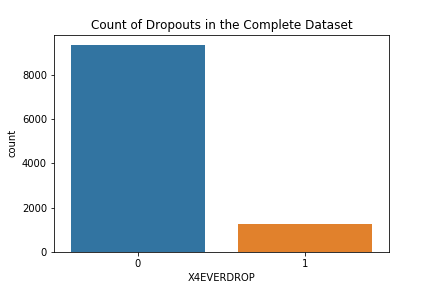
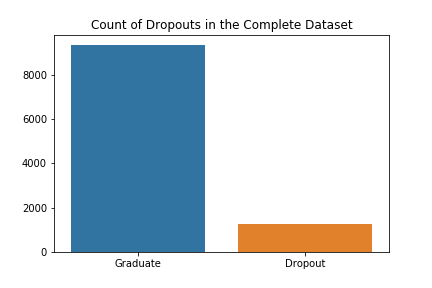
improve visuals

diff --git a/README.md b/README.md
@@ -2,7 +2,7 @@
 
 ## The Problem
 
-The goal of this analysis is to build a model that will flag students that are at risk of dropping out of High School so that proper resources can be provided for them. As a tool, such a model could be utilized by high school counselors seeking to understand how to best budget their limited resources.
+Every year, over 1.2 million students drop out of high school in the United States alone. That's a student every 26 seconds – or 7,000 a day. About 25% of high school freshmen fail to graduate from high school on time. The goal of this analysis is to build a model that will flag students that are at risk of dropping out of High School so that proper resources can be provided for them. As a tool, such a model could be utilized by high school counselors seeking to understand how to best budget their limited resources.
 
 ![](figures/dropcount.png) 
 
